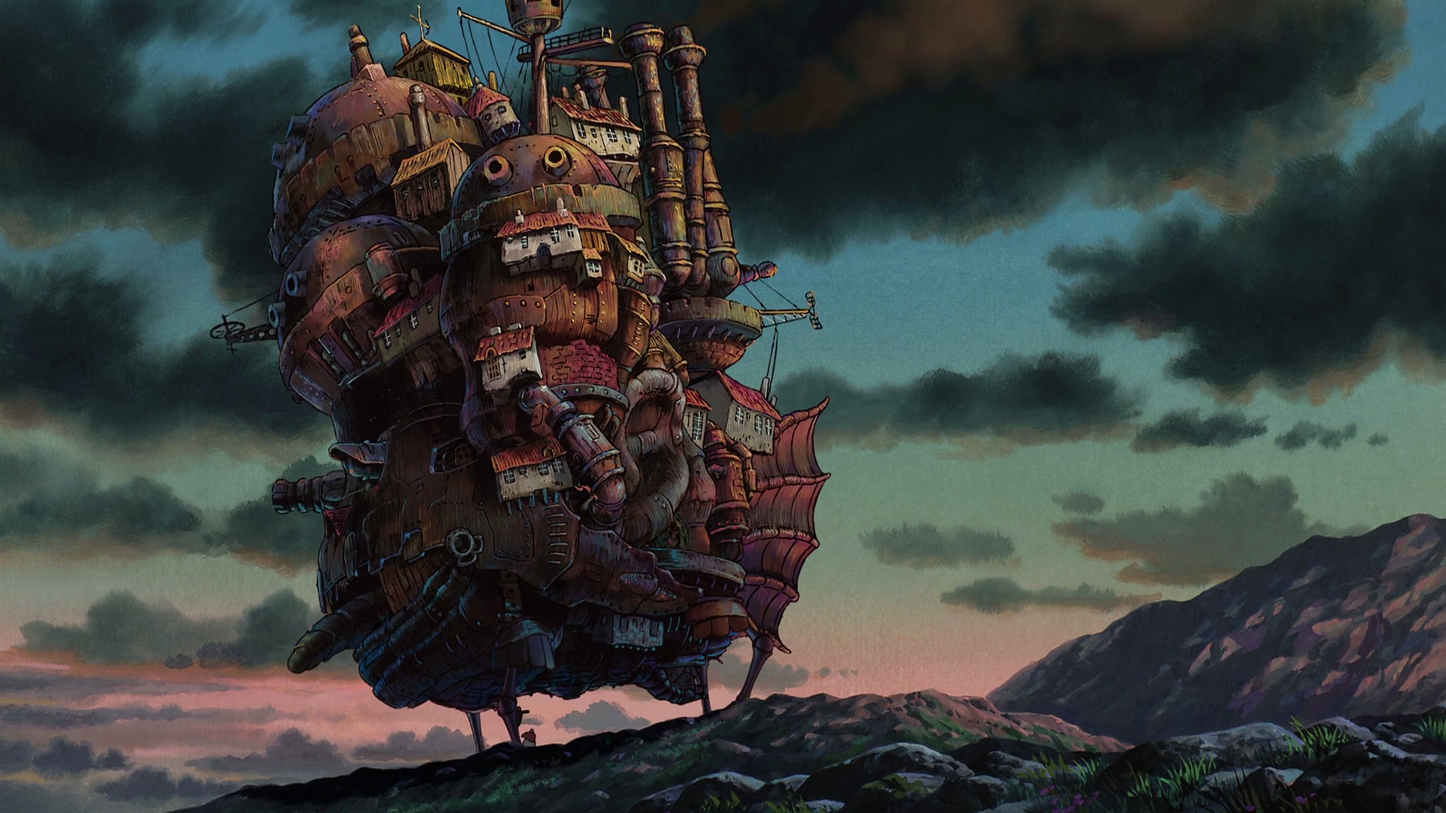
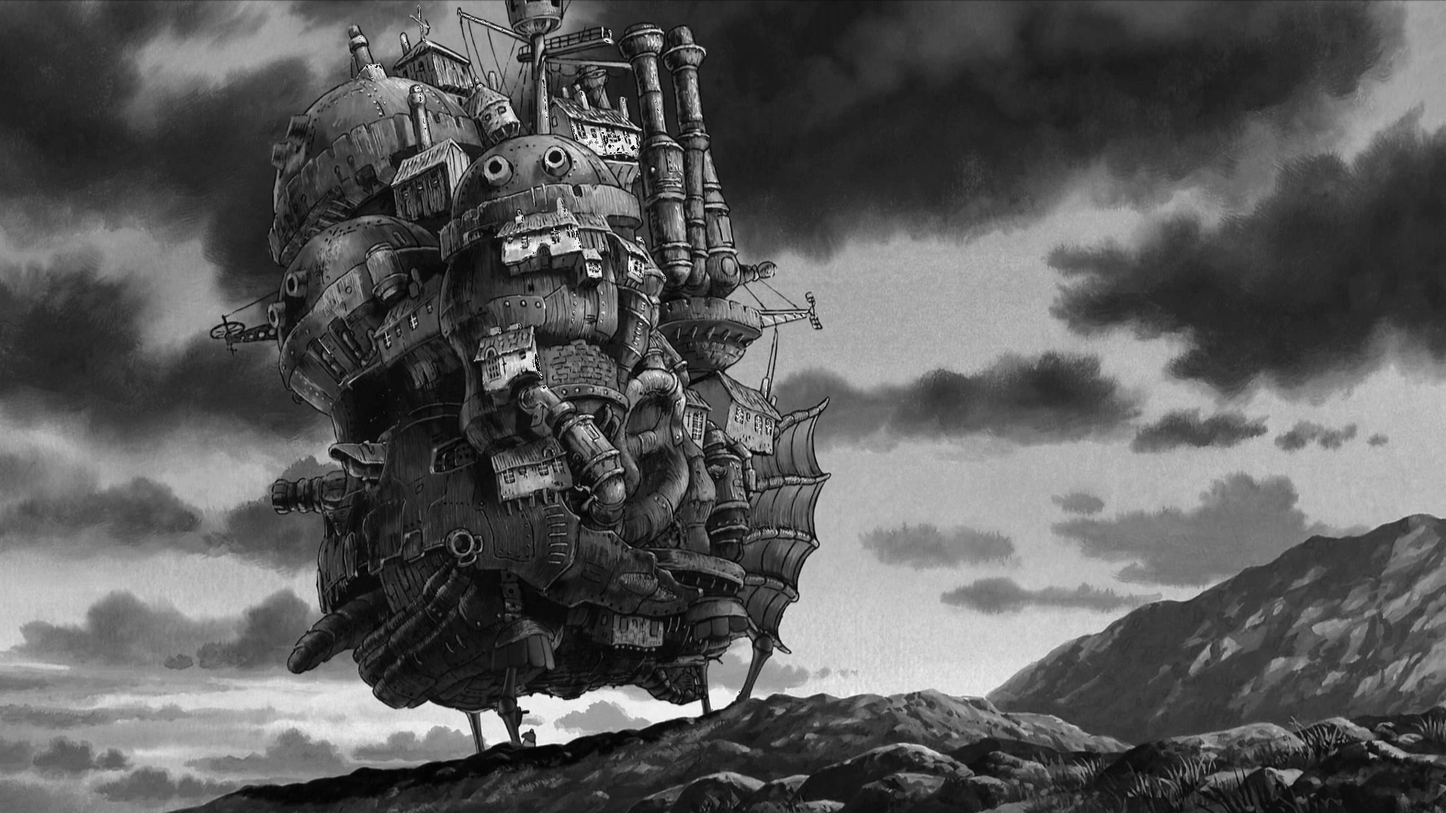
added std's, save on file

diff --git a/filters.cpp b/filters.cpp
@@ -8,6 +8,7 @@
 bool THERE_IS_IMAGE = 0;
 std::string SAVE_DIRECTORY = "Saved/";
 std::string TEMP_DIRECTORY = "Preview/";
+std::string inputPath;
 
 void check_make_dir(std::string &path){
     bool there_is_directory = std::filesystem::is_directory(path);
@@ -60,16 +61,30 @@ void save_image(Image &image,std::string &outputPath ){
 
 void saving_state(Image& image,std::string &outputPath){
         std::string save;
-
         bool saving = 1;
-        
         while(saving){
             std::cout << "Do you want to save?(y/n)"<<"\n";
             std::cin >> save;
             if (save=="y"){
-                output_path(outputPath);
+                bool picking = true;
+                while(picking){
+                    char saveOnFile;
+                    std::cout<<"Save on file?(y/n)\n";
+                    std::cin >> saveOnFile;
+                    if (saveOnFile=='y'){
+                        outputPath = inputPath;
+                        picking = false;
+                    }
+                    else if(saveOnFile=='n'){
+                        output_path(outputPath);
+                        outputPath = SAVE_DIRECTORY + outputPath;
+                        picking = false;
+                    }
+                    else{
+                        std::cout <<"invalid input\n";
+                    }
+                }
                 if(valid_extenstion(outputPath)){
-                    outputPath = SAVE_DIRECTORY + outputPath;
                     get_create_filepath(outputPath);
                     save_image(image,outputPath);
                     std::cout << "Saved succesfully!"<<"\n";
@@ -135,7 +150,7 @@ std::string get_filename(std::string path){
     // return path;
 }
 
-void invert_filter(Image &image,std::string &inputPath){
+void invert_filter(Image &image,std::string inputPath){
     for (int i = 0;i < image.width;i++){
         for (int j = 0;j < image.height;j++){
             for (int k = 0;k<image.channels;k++){
@@ -147,7 +162,7 @@ void invert_filter(Image &image,std::string &inputPath){
     save_image(image,inputPath);
 }
 
-void grayscale_filter(Image &image,std::string &inputPath){
+void grayscale_filter(Image &image,std::string inputPath){
   
     for (int i = 0;i < image.width;i++){
         unsigned int avg=0;
@@ -167,7 +182,7 @@ void grayscale_filter(Image &image,std::string &inputPath){
     std::cout << "grayscale applied"<<"\n";
 }
 
-void blackandwhite_filter(Image &image,std::string & inputPath){
+void blackandwhite_filter(Image &image,std::string  inputPath){
         for (int i = 0;i < image.width;i++){
         unsigned int avg=0;
             for (int j = 0;j < image.height;j++){
@@ -189,16 +204,16 @@ void blackandwhite_filter(Image &image,std::string & inputPath){
     std::cout << "Black&White applied"<<"\n";
 }
 
-void frame_filter(Image &image, std::string &inputPath){
+void frame_filter(Image &image, std::string inputPath){
     
     char c;
-    cout << "Choose frame: s = Simple, f = Fancy: ";
-    cin >> c;
+    std::cout << "Choose frame: s = Simple, f = Fancy: ";
+    std::cin >> c;
 
     while (c!='s' && c!='S' && c!='f' && c!='F')
     {
-        cout << "Invalid choice. Enter s or f: ";
-        cin >> c;
+        std::cout << "Invalid choice. Enter s or f: ";
+        std::cin >> c;
     }
 
     bool fancy = (c=='f' || c=='F');
@@ -208,7 +223,7 @@ void frame_filter(Image &image, std::string &inputPath){
         {255,255,0}, {16,163,222}, {0,0,0}, {255,255,255}
     };        
 
-    cout << "1) Red  2) Green  3) Blue  4) Purple\n"
+    std::cout << "1) Red  2) Green  3) Blue  4) Purple\n"
     << "5) Yellow  6) Cyan  7) Black  8) White\n";
     
     int c1;
@@ -217,20 +232,20 @@ void frame_filter(Image &image, std::string &inputPath){
 
     while (c1 < 1 || c1 > 8)
     {
-        cout << "Invalid choice. Enter 1-8: ";
-        cin >> c1;
+        std::cout << "Invalid choice. Enter 1-8: ";
+        std::cin >> c1;
     }
 
     int c2 = 0;
 
     if (fancy)
     {
-        cout << "Inner color: ";
-        cin >> c2;
+        std::cout << "Inner color: ";
+        std::cin >> c2;
         while (c2 < 1 || c2 > 8)
         {
-            cout << "Invalid choice. Enter 1-8: ";
-            cin >> c2;
+            std::cout << "Invalid choice. Enter 1-8: ";
+            std::cin >> c2;
         }
     }
 
@@ -273,13 +288,13 @@ void frame_filter(Image &image, std::string &inputPath){
             }
         }
     }
-    
+    image = nimage;
     inputPath = TEMP_DIRECTORY + get_filename(inputPath);
-    save_image(nimage,inputPath);
+    save_image(image,inputPath);
     std::cout << "Frame Added"<<"\n";
 }
 
-void weird_filter(Image &image,std::string &inputPath){
+void weird_filter(Image &image,std::string inputPath){
     for (int i = 0 ; i<image.width;i++){
         for (int j = 0; j<image.height/2;j++){
             std::swap(image(i,j,0),image(i,(image.height)-1-j,0));
@@ -292,7 +307,7 @@ void weird_filter(Image &image,std::string &inputPath){
     std::cout << "Weird applied"<<"\n";
 }
 
-void flip(Image &image,std::string &inputPath){
+void flip(Image &image,std::string inputPath){
     char choice = 'h';
     bool picking = true;
     while(picking){
@@ -329,7 +344,7 @@ void flip(Image &image,std::string &inputPath){
     std::cout << "Flip applied"<<"\n";
 }
 
-void brightness_filter(Image &image,std::string &inputPath){
+void brightness_filter(Image &image,std::string inputPath){
     std::cout << "Select either darken or lighten:\n	1- Darken\n	2- Lighten\n";
     bool picking = true;
     int selection = 0;
@@ -384,7 +399,7 @@ void brightness_filter(Image &image,std::string &inputPath){
     std::cout << "Brightness Edited"<<"\n";
 }
 
-void resize_filter(Image &image,std::string &inputPath){
+void resize_filter(Image &image,std::string inputPath){
     double newWidth, newHeight ;
 
     std::cout << "Please Enter Your prefered width and height : " ;
@@ -422,7 +437,7 @@ void resize_filter(Image &image,std::string &inputPath){
     std::cout << "Image resized"<<"\n";
 }
 
-void rotate_filter(Image &image,std::string &inputPath){
+void rotate_filter(Image &image,std::string inputPath){
     
     bool picking = true;
     int choice = 0;
@@ -494,7 +509,7 @@ int main(){
     bool running = true;
 
     Image img;
-    std::string inputPath,outputPath;
+    std::string outputPath;
 
     while(running){
 
